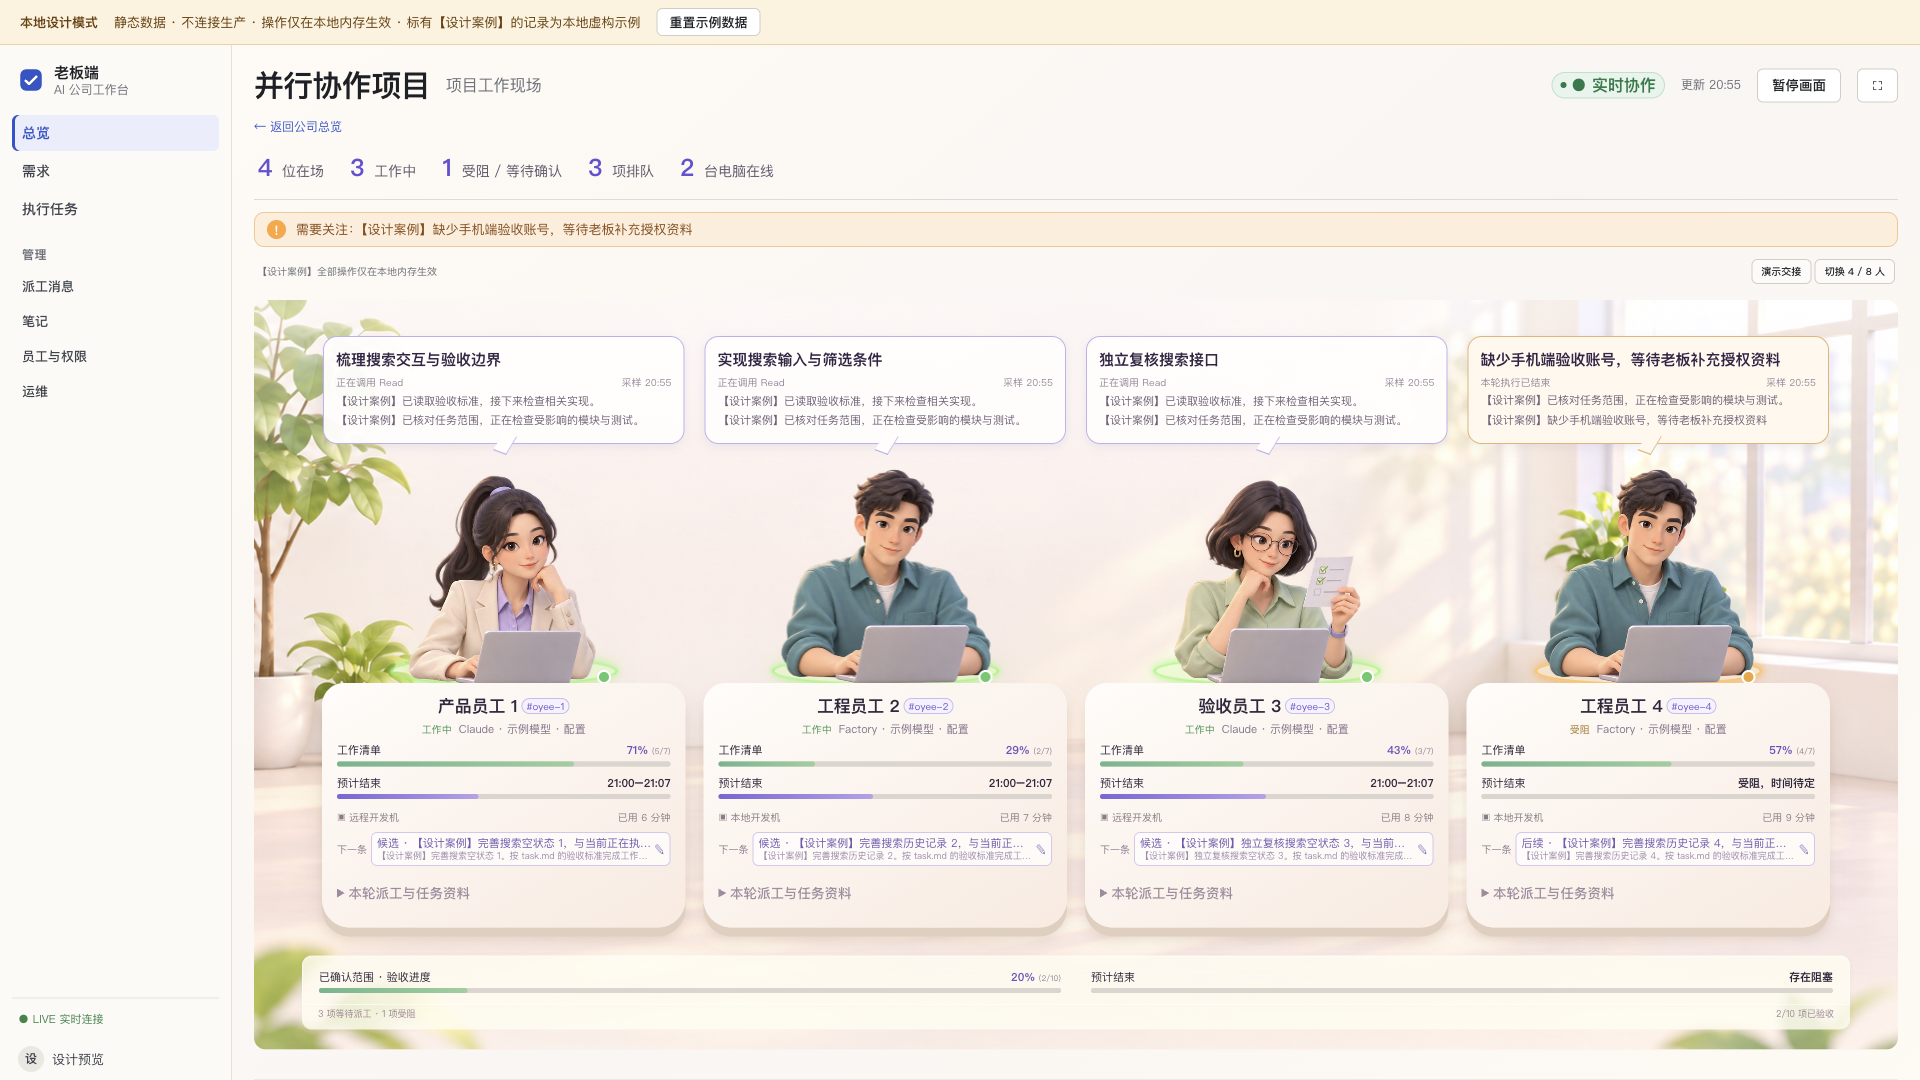
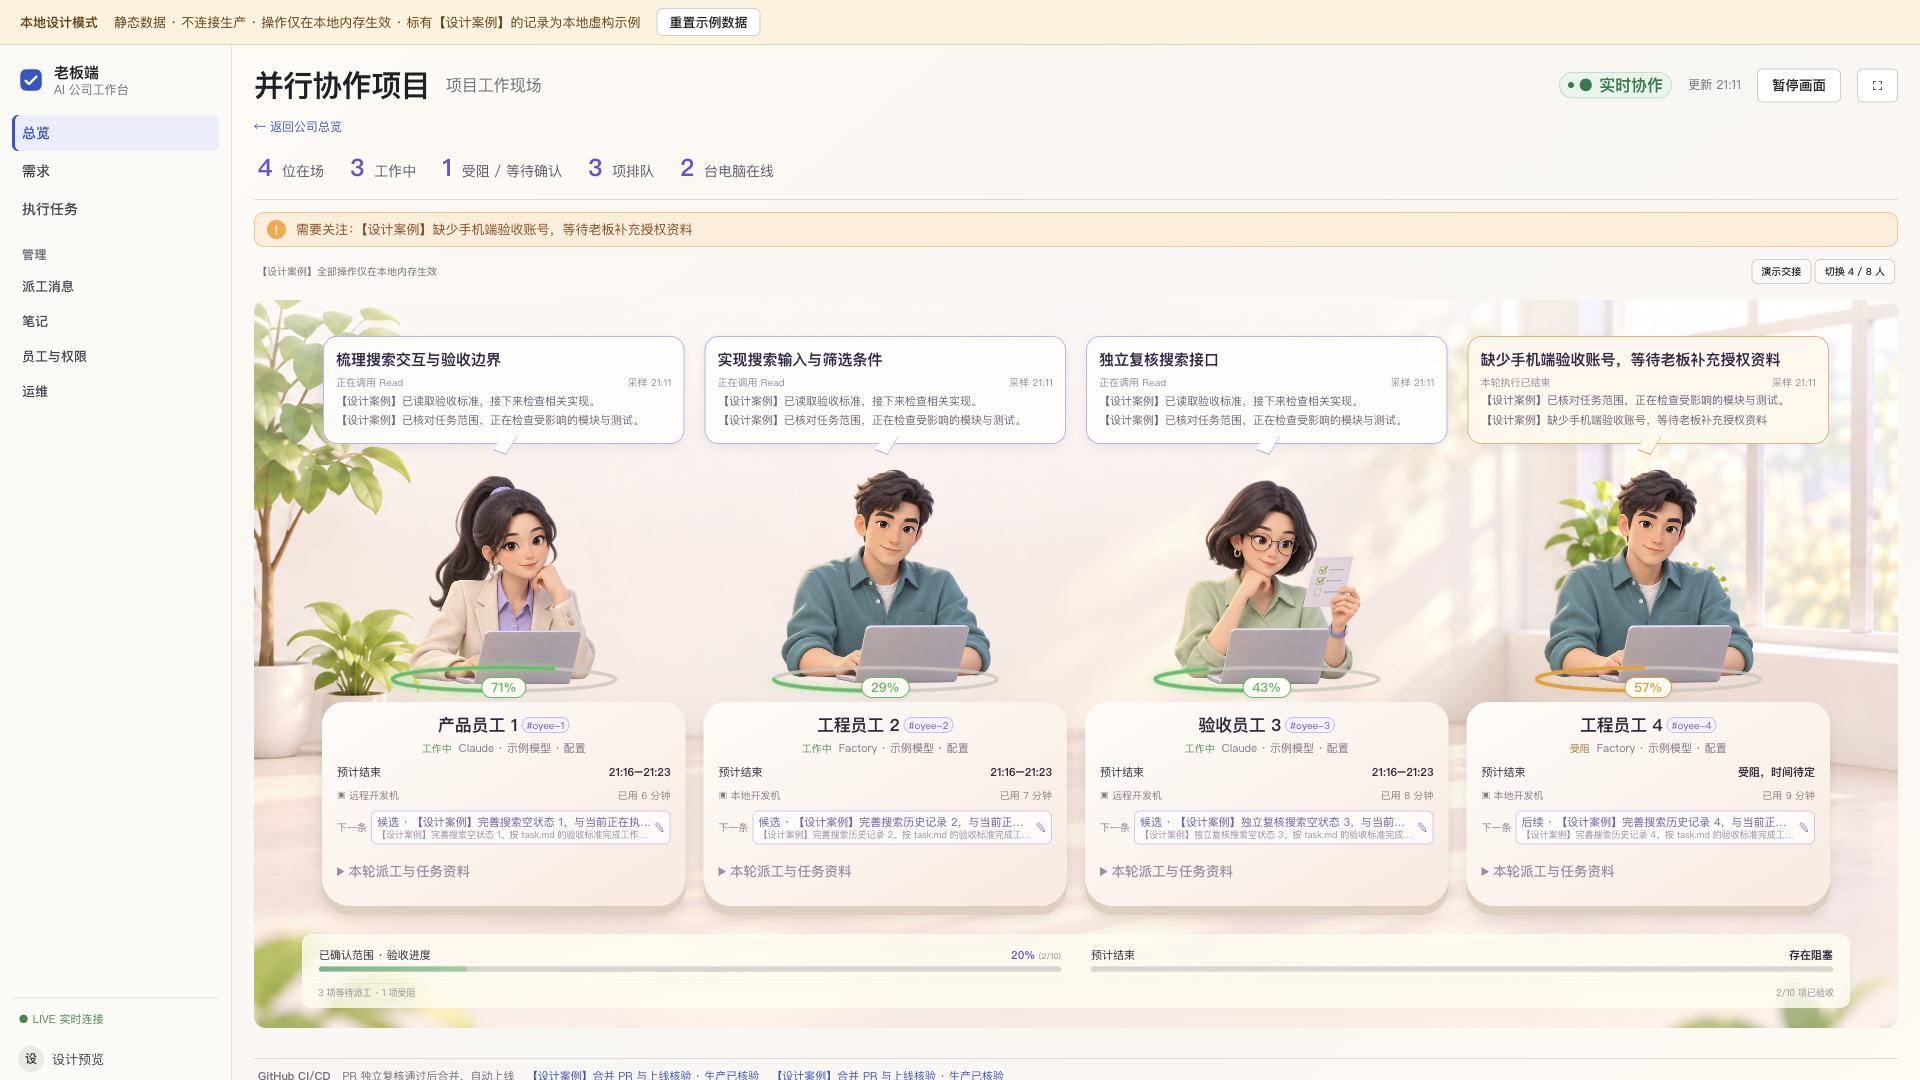
feat(owner): 用员工脚下光圈显示工作进度

diff --git a/owner-end/public/app.css b/owner-end/public/app.css
@@ -744,15 +744,23 @@ label.inline input:not([type="checkbox"]), label.inline select { width: auto; }
 .employee-seat .agent-activity-feed>div{display:block;padding:1px 0;}.employee-seat .agent-activity-feed time{display:none;}
 .employee-seat .agent-activity-feed pre{font-family:inherit;font-size:10px;line-height:1.6;color:#726279;}
 .employee-seat .agent-activity-empty{padding:0;background:none;color:#8e7b91;font-size:10px;line-height:1.5;margin-top:4px;max-height:32px;overflow:auto;}
-.employee-figure{width:150px;height:145px;position:relative;flex:none;margin:0 auto -1px;isolation:isolate;}
+.employee-figure{width:150px;height:145px;position:relative;flex:none;margin:0 auto 18px;isolation:isolate;}
 .figure-crop{width:150px;height:145px;position:relative;overflow:hidden;z-index:1;}
 .person-sprite{position:absolute;display:block;width:150px;height:150px;background-image:url('/people/team-atlas.png');background-size:300% 200%;background-repeat:no-repeat;}
 .person-0{background-position:0 0;}.person-1{background-position:50% 0;}.person-2{background-position:100% 0;}.person-3{background-position:0 100%;}.person-4{background-position:50% 100%;}.person-5{background-position:100% 100%;}
-.person-halo{position:absolute;left:0;right:0;bottom:-2px;height:22px;border:3px solid #d8d1cd;border-radius:50%;background:#f9f7f2b0;z-index:0;}
-.state-working .person-halo{border-color:#91f86e;background:#d0ffad80;box-shadow:0 0 7px #96f884,0 0 18px #82f23d99,inset 0 0 10px #fff;animation:room-breathe 2.8s ease-in-out infinite;}
-.state-blocked .person-halo,.state-waiting .person-halo{border-color:#ffc46b;box-shadow:0 0 8px #ffb34f,0 0 18px #f9ab4d99;background:#ffeec870;}
-.person-state{position:absolute;right:7px;bottom:0;width:14px;height:14px;border-radius:50%;background:#9f95a1;border:2px solid white;z-index:2;}
-.state-working .person-state{background:#60c86a;}.state-blocked .person-state,.state-waiting .person-state{background:#efa636;}.state-unknown .employee-figure{filter:saturate(.25);}
+.person-halo{--halo-color:#8c8492;--halo-light:#8c849270;position:absolute;left:-5px;right:-5px;bottom:-12px;height:26px;z-index:2;color:var(--halo-color);}
+.person-halo svg{display:block;width:100%;height:100%;overflow:visible;}
+.person-halo path{fill:none;stroke-width:3.5;vector-effect:non-scaling-stroke;}
+.halo-track{stroke:#d0c7bd;opacity:.8;}
+.halo-fill{stroke:var(--halo-color);stroke-linecap:round;filter:drop-shadow(0 0 3px var(--halo-light));transition:stroke-dasharray .6s ease;}
+.halo-value{position:absolute;left:50%;bottom:-2px;transform:translateX(-50%);padding:1px 7px;border:1px solid currentColor;border-radius:12px;background:#fffdf5;box-shadow:0 1px 5px #644e321a;font-size:11px;line-height:1.3;font-weight:700;font-variant-numeric:tabular-nums;white-space:nowrap;}
+.state-working .person-halo{--halo-color:#45bd65;--halo-light:#7af071cc;}
+.state-working .halo-fill{animation:room-breathe 2.8s ease-in-out infinite;}
+.state-blocked .person-halo,.state-waiting .person-halo{--halo-color:#e9a02b;--halo-light:#ffbb5a99;}
+.progress-unknown .halo-track{stroke-dasharray:3 4;stroke:#a89eaa;}
+.progress-unknown .halo-value{color:#82748b;border-color:#c4b8c7;}
+.state-unknown .employee-figure{filter:saturate(.25);}
+.time-caption{margin:3px 0 5px;}
 .seat-console{position:relative;padding:6px 7px 8px;min-width:0;border-radius:15px;background:linear-gradient(#fffdfaD9,#fff9f0b8);box-shadow:0 5px 8px #60492e0d;}
 .seat-identity{display:flex;justify-content:center;align-items:center;gap:4px;min-height:22px;flex-wrap:wrap;line-height:1.2;}
 .seat-identity strong{font-size:12px;letter-spacing:-.2px;}.instance-tag{font-size:8px;color:#6e55c4;border:1px solid #c9bdee;background:#f7f1ff;border-radius:9px;padding:1px 4px;}
@@ -779,12 +787,12 @@ label.inline input:not([type="checkbox"]), label.inline select { width: auto; }
 .quiet-room{height:110px;display:flex;align-items:center;justify-content:center;}.quiet-room>span{display:none;}.quiet-room p{padding:8px 12px;font-size:11px;background:#fffaf3e6;border-radius:12px;color:#9b7a72;text-align:center;}
 .room-empty{opacity:.87;}.room-empty .room-heading h2{font-size:16px;}
 .avatar-seats{grid-template-columns:repeat(4,minmax(0,1fr));gap:20px 28px;padding:0 8%;}
-.crowded::before{background-size:100% 100%;}.crowded .seat-speech{height:78px;}.crowded .seat-console{padding:8px 10px;background:linear-gradient(#fffaf6ed,#fff9f0d1);}
-.employee-figure.portrait{width:78px;height:78px;margin:0 auto 5px;}.portrait .figure-crop{width:72px;height:72px;border-radius:50%;background:#f4e6dc;border:3px solid #fff8;}.portrait .person-sprite{width:132px;height:132px;left:-30px;top:-4px;}.portrait .person-halo{inset:-4px 2px 2px -4px;height:auto;border-radius:50%;}.portrait .person-state{right:0;bottom:4px;}
+.crowded::before{background-size:100% 100%;}.crowded .seat-speech{height:78px;}.crowded .agent-activity-feed{height:30px;}.crowded .agent-activity-feed pre{font-size:10px;line-height:1.5;}.crowded .seat-console{padding:8px 10px;background:linear-gradient(#fffaf6ed,#fff9f0d1);}
+.employee-figure.portrait{width:78px;height:78px;margin:0 auto 12px;}.portrait .figure-crop{width:72px;height:72px;border-radius:50%;background:#f4e6dc;border:3px solid #fff8;}.portrait .person-sprite{width:132px;height:132px;left:-30px;top:-4px;}.portrait .person-halo{inset:-5px 1px 1px -5px;height:auto;}.portrait .halo-value{bottom:-5px;}
 .room-focused{padding:30px 45px 20px;}.room-focused::before{background-size:100% 100%;opacity:.7;}.room-focused::after{background:linear-gradient(#fff9,transparent 45%,#fffaf1b8);}
 .room-focused .room-heading{display:none;}.room-focused .figure-seats{grid-template-columns:repeat(4,minmax(0,1fr));gap:30px 18px;padding:0 20px;}
 .room-focused .figure-seats.seats-1{grid-template-columns:minmax(0,320px);}.room-focused .figure-seats.seats-2{grid-template-columns:repeat(2,minmax(0,320px));}.room-focused .figure-seats.seats-3{grid-template-columns:repeat(3,minmax(0,320px));justify-content:center;}
-.room-focused .employee-figure,.room-focused .figure-crop{width:228px;height:220px;}.room-focused .person-sprite{width:228px;height:228px;}.room-focused .person-halo{height:30px;}
+.room-focused .employee-figure,.room-focused .figure-crop{width:228px;height:220px;}.room-focused .person-sprite{width:228px;height:228px;}.room-focused .person-halo{height:32px;}.room-focused .halo-value{font-size:13px;padding:1px 9px;}
 .room-focused .seat-speech{height:108px;margin-bottom:20px;padding:12px;}.room-focused .seat-work{font-size:15px;}.room-focused .agent-activity-feed{height:48px;}.room-focused .agent-activity-feed pre{font-size:12px;}.room-focused .agent-activity-heading strong,.room-focused .agent-activity-heading span{font-size:10px;}
 .room-focused .seat-console{padding:12px 15px 15px;border-radius:22px 22px 28px 28px;box-shadow:0 9px 0 #e3cebe,0 12px 13px #7d58322b;background:linear-gradient(150deg,#fffcf9,#faeae0);}
 .room-focused .seat-identity strong{font-size:17px;}.room-focused .instance-tag{font-size:10px;}.room-focused .seat-model{font-size:11px;min-height:25px;}.room-focused .seat-status{font-size:10px;}
@@ -792,15 +800,15 @@ label.inline input:not([type="checkbox"]), label.inline select { width: auto; }
 .room-focused .room-project-progress{margin-top:28px;padding:12px 16px 3px;gap:30px;}.room-focused .room-footer{padding:2px 16px 8px;}
 .room-message-editor{position:relative;border:1px solid #c8b8e8;border-radius:16px;background:#fffdf9;padding:20px;color:#352b3e;}.room-message-editor header{display:flex;gap:12px;align-items:flex-start;justify-content:space-between;}.room-message-editor h2{font-size:16px;margin:0;}.room-message-editor p{font-size:12px;color:#7f6c85;}.room-message-editor label{display:block;font-size:12px;}.room-message-editor textarea{width:100%;font:12px/1.7 ui-monospace,monospace;margin-top:6px;resize:vertical;}.editor-actions{display:flex;align-items:center;gap:12px;flex-wrap:wrap;margin-top:10px;}.editor-actions small{font-size:11px;color:#8f7d91;}
 .scene-deliveries{display:flex;align-items:center;gap:12px;flex-wrap:wrap;padding:8px 4px;font-size:11px;border-top:1px solid #e3d9d4;color:#79667d;}.scene-deliveries a{font-size:11px;}.runtime-data-note{font-size:10px;}.scene-paused *{animation-play-state:paused!important;}
-@keyframes room-breathe{0%,100%{opacity:.7;box-shadow:0 0 5px #96f884,0 0 12px #82f23d77;}50%{opacity:1;box-shadow:0 0 9px #96f884,0 0 23px #82f23dbb;}}
+@keyframes room-breathe{0%,100%{filter:drop-shadow(0 0 2px var(--halo-light));}50%{filter:drop-shadow(0 0 6px var(--halo-light));}}
 @media(min-width:1800px){.project-room{padding-left:48px;padding-right:48px;}.employee-figure,.figure-crop{width:178px;height:171px;}.person-sprite{width:178px;height:178px;}.seat-work{font-size:13px;}.seat-identity strong{font-size:14px;}.seat-speech{height:88px;}.employee-seat .agent-activity-feed{height:38px;}.employee-seat .agent-activity-feed pre{font-size:11px;}.seat-model{font-size:10px;}}
 @media(max-width:1250px){.project-rooms{grid-template-columns:1fr;}.project-room{padding-left:40px;padding-right:40px;}.room-focused .figure-seats{grid-template-columns:repeat(3,minmax(0,1fr));}.avatar-seats{padding:0 4%;}.room-focused .employee-figure,.room-focused .figure-crop{width:180px;height:174px;}.room-focused .person-sprite{width:180px;height:180px;}}
 @media(max-width:750px){.main:has(.company-scene){padding:16px 12px;}.company-scene .runtime-header h1{font-size:25px;}.company-counters{gap:9px 16px;font-size:12px;}.project-room{padding:18px 14px 14px;}.room-heading h2{font-size:17px;}.room-heading>span{font-size:10px;}.room-heading>a{font-size:10px;}.room-seats,.figure-seats.seats-4,.avatar-seats,.room-focused .figure-seats,.room-focused .figure-seats.seats-3{grid-template-columns:repeat(2,minmax(0,1fr));padding:0;gap:20px 10px;}.room-focused .employee-figure,.room-focused .figure-crop{width:150px;height:145px;}.room-focused .person-sprite{width:150px;height:150px;}.room-focused .seat-console{padding:8px;}.room-focused .seat-identity strong{font-size:13px;}.room-focused .seat-work{font-size:12px;}.room-focused .seat-speech{height:100px;padding:8px;}.room-focused .agent-activity-feed pre{font-size:10px;}.room-project-progress{gap:12px;}.room-footer{flex-wrap:wrap;gap:2px;}.room-message-editor header{flex-wrap:wrap;}}
 @media(max-width:430px){.room-seats,.figure-seats.seats-2,.figure-seats.seats-4,.avatar-seats,.room-focused .figure-seats,.room-focused .figure-seats.seats-2,.room-focused .figure-seats.seats-3{grid-template-columns:minmax(0,1fr);padding:0 20px;}.seat-speech{max-width:260px;width:100%;align-self:center;}.seat-console{max-width:290px;width:100%;align-self:center;}.room-project-progress{grid-template-columns:1fr;gap:2px;}.room-heading h2 small{display:none;}.room-focused .employee-figure,.room-focused .figure-crop{width:210px;height:202px;}.room-focused .person-sprite{width:210px;height:210px;}}
-@media(prefers-reduced-motion:reduce){.company-scene *{animation:none!important;}}
+@media(prefers-reduced-motion:reduce){.company-scene *{animation:none!important;transition:none!important;}}
 /* 总览共用一块桌前玻璃，避免退回“一人一张卡片”。近景保留立体工位。 */
 .project-room:not(.room-focused):not(.crowded) .room-seats{position:relative;isolation:isolate;}
-.project-room:not(.room-focused):not(.crowded) .room-seats::before{content:'';position:absolute;z-index:0;left:-7px;right:-7px;bottom:0;height:150px;border-radius:12px;background:linear-gradient(#fffaf2d0,#fff9eee0);border:1px solid #fff8;box-shadow:0 4px 7px #62432c12;}
+.project-room:not(.room-focused):not(.crowded) .room-seats::before{content:'';position:absolute;z-index:0;left:-7px;right:-7px;bottom:0;height:116px;border-radius:12px;background:linear-gradient(#fffaf2d0,#fff9eee0);border:1px solid #fff8;box-shadow:0 4px 7px #62432c12;}
 .project-room:not(.room-focused):not(.crowded) .employee-seat{z-index:1;}
 .project-room:not(.room-focused):not(.crowded) .seat-console{background:none;box-shadow:none;border-radius:0;}
 .project-room:not(.room-focused):not(.crowded) .seat-identity{background:#fffdf8de;border-radius:12px;padding:3px 2px;margin-bottom:2px;}

diff --git a/owner-end/src/ui/pages/Overview.tsx b/owner-end/src/ui/pages/Overview.tsx
@@ -56,11 +56,13 @@ function TimeProgress({
   at,
   elapsed,
   reason,
+  compact = false,
 }: {
   estimate?: RuntimeEstimate;
   at: number;
   elapsed?: number;
   reason?: string;
+  compact?: boolean;
 }) {
   const text = finishText(estimate, at);
   const value =
@@ -74,7 +76,9 @@ function TimeProgress({
         )
       : undefined;
   return (
-    <div class={`room-time ${text ? 'estimated' : ''}`}>
+    <div
+      class={`room-time ${text ? 'estimated' : ''} ${compact ? 'time-caption' : ''}`}
+    >
       <div>
         <span>预计结束</span>
         <b>
@@ -83,22 +87,36 @@ function TimeProgress({
             '暂无法估计'}
         </b>
       </div>
-      <progress
-        max={100}
-        value={value}
-        aria-label="参考耗时"
-        aria-valuetext={text ?? reason ?? '暂无法估计'}
-      />
+      {!compact ? (
+        <progress
+          max={100}
+          value={value}
+          aria-label="参考耗时"
+          aria-valuetext={text ?? reason ?? '暂无法估计'}
+        />
+      ) : null}
     </div>
   );
 }
 function EmployeeFigure({
   agent,
   compact,
+  progress,
 }: {
   agent: RuntimeAgentView;
   compact: boolean;
+  progress: RuntimeProgress;
 }) {
+  const percent = progress.percent;
+  const state = staffStatus(agent);
+  const progressText =
+    percent === undefined
+      ? '待上报'
+      : `${state.kind === 'unknown' ? '上次 ' : ''}${percent}%`;
+  const description = `${state.text}。${progress.label}：${progressText}${progress.total ? `（${progress.done}/${progress.total}）` : ''}。${progress.detail}`;
+  const ring = compact
+    ? 'M50 5a45 45 0 1 1 0 90a45 45 0 1 1 0-90'
+    : 'M100 37a94 16 0 1 1 0-32a94 16 0 1 1 0 32';
   return (
     <div
       class={`employee-figure ${compact ? 'portrait' : 'character'}`}
@@ -111,8 +129,35 @@ function EmployeeFigure({
       >
         <span class={`person-sprite person-${portraitIndex(agent)}`} />
       </div>
-      <span class="person-halo" />
-      <span class="person-state" aria-hidden="true" />
+      <div
+        class={`person-halo ${percent === undefined ? 'progress-unknown' : ''}`}
+        role="progressbar"
+        aria-label={`${agent.name}的${progress.label}`}
+        aria-valuemin={0}
+        aria-valuemax={100}
+        aria-valuenow={percent}
+        aria-valuetext={description}
+        title={description}
+      >
+        <svg
+          viewBox={compact ? '0 0 100 100' : '0 0 200 44'}
+          preserveAspectRatio="none"
+          aria-hidden="true"
+        >
+          <path class="halo-track" d={ring} pathLength={100} />
+          {percent !== undefined && percent > 0 ? (
+            <path
+              class="halo-fill"
+              d={ring}
+              pathLength={100}
+              stroke-dasharray={`${percent} 100`}
+            />
+          ) : null}
+        </svg>
+        <span class="halo-value" aria-hidden="true">
+          {progressText}
+        </span>
+      </div>
     </div>
   );
 }
@@ -154,7 +199,7 @@ function EmployeeSeat({
         </div>
         <ActivityFeed agent={a} />
       </div>
-      <EmployeeFigure agent={a} compact={compact} />
+      <EmployeeFigure agent={a} compact={compact} progress={progress} />
       <div class="seat-console">
         <div class="seat-identity">
           <strong>{name}</strong>
@@ -167,8 +212,8 @@ function EmployeeSeat({
             {a.modelSource === 'configured' ? ' · 配置' : ''}
           </span>
         </div>
-        <WorkProgress value={progress} />
         <TimeProgress
+          compact
           estimate={state.kind === 'working' ? a.estimate : undefined}
           at={at}
           elapsed={a.elapsedSeconds}
